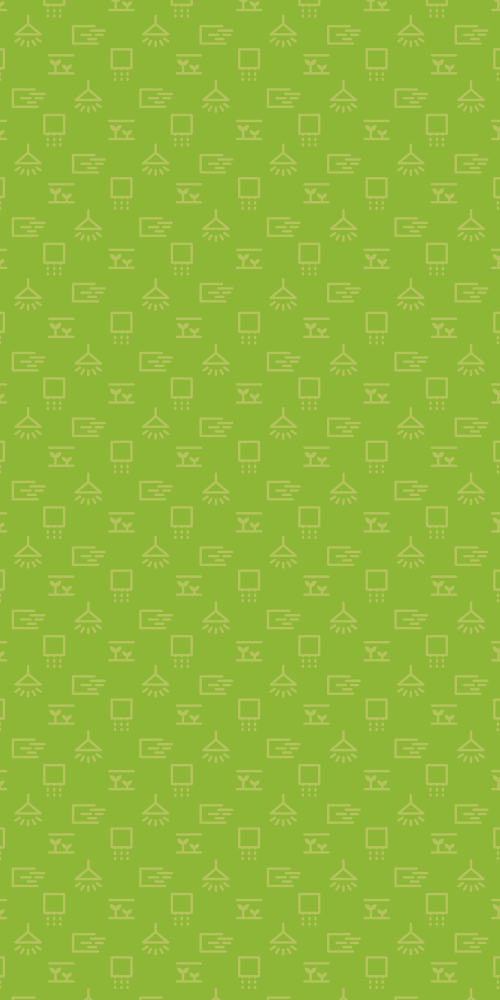
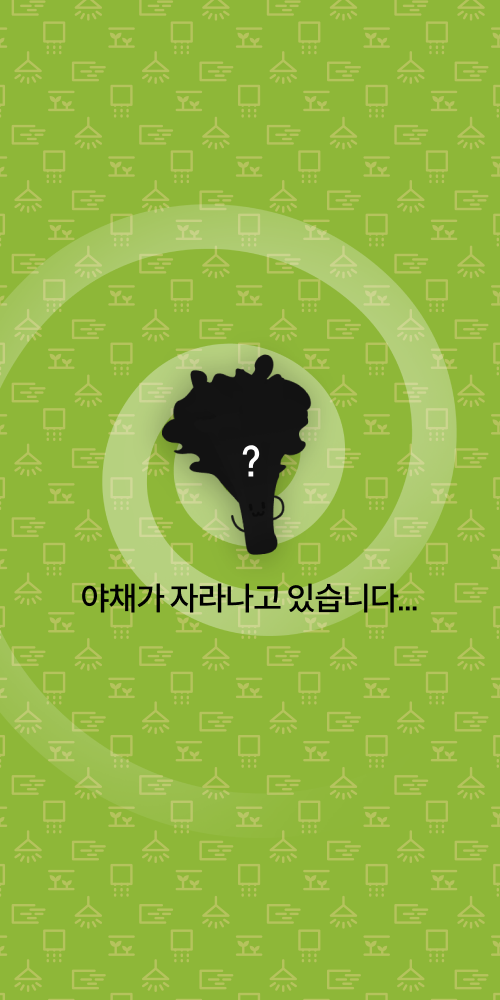
Re : Fail-

diff --git a/team_1/src/FailKP/FailKP.css b/team_1/src/FailKP/FailKP.css
@@ -1,0 +1,72 @@
+html, body{
+    margin: 0 auto;
+    padding: 0;
+    height: 100%;
+    width: 100%;
+  
+    display: block;
+  
+    max-width: 500px;
+  
+    font-family: Arial;
+    text-align: center;
+  }
+  
+  #root {
+    height: 100%;
+    width: 100%;
+  }
+  
+  .FailKP{
+
+    width: 100%;
+    height: 100%;
+    max-width: 500px;
+    background: url("../../public/img/RFRMbg.png");
+    background-repeat: no-repeat;
+    background-position: center;
+    background-size: cover;
+
+  }
+
+  .Hint{
+    display: flex;
+    position:relative;
+
+    max-width: 500px;
+    width: 60%;
+    height: auto;
+    margin-left: auto;
+    margin-right: auto;
+    
+    top: 70%;
+    bottom: 50%;
+  }
+
+.Retry1{
+  display: flex;
+  position:relative;
+
+  max-width: 500px;
+  width: 60%;
+  height: auto;
+  margin-left: auto;
+  margin-right: auto;
+  
+  top: 70%;
+  bottom: 50%;
+}
+
+.Tembtn4{
+  display: flex;
+  position:relative;
+
+  max-width: 500px;
+  width: 60%;
+  height: auto;
+  margin-left: auto;
+  margin-right: auto;
+  
+  top: 70%;
+  bottom: 50%;
+}

diff --git a/team_1/src/GameIntro/GameIntro.css b/team_1/src/GameIntro/GameIntro.css
@@ -42,9 +42,10 @@ html, body{
 
     max-width: 250px;
     margin-left: 5%;
-    margin-right: auto;
+    opacity: 1;
     position: relative;
     margin-top: 30%;
+    transition: 1.3s;
   
     border: 0;
 }
@@ -54,7 +55,6 @@ html, body{
 
     max-width: 300px;
     margin-left: 5%;
-    margin-right: auto;
     position: relative;
     margin-top: 7%;
   
@@ -66,7 +66,6 @@ html, body{
 
     max-width: 230px;
     margin-left: 5%;
-    margin-right: auto;
     position: relative;
     margin-top: 5%;
   
@@ -78,7 +77,6 @@ html, body{
 
     max-width: 280px;
     margin-left: 5%;
-    margin-right: auto;
     position: relative;
     margin-top: 7%;
   
@@ -90,7 +88,6 @@ html, body{
 
     max-width: 220px;
     margin-left: 5%;
-    margin-right: auto;
     position: relative;
     margin-top: 5%;
   
@@ -102,7 +99,6 @@ html, body{
 
     max-width: 130px;
     margin-left: 5%;
-    margin-right: auto;
     position: relative;
     margin-top: 7%;
   

diff --git a/team_1/src/App.js b/team_1/src/App.js
@@ -8,7 +8,7 @@ import Mission2Result from './Mission2Result/Mission2Result'
 import Mission3 from './Mission3/Mission3'
 import Mission3Result from './Mission3Result/Mission3Result'
 import Loading from './Loading/Loading'
-import ResultFail from './ResultFail/ResultFail'
+import FailRM from './FailRM/FailRM'
 import ResultSuc from './ResultSuc/ResultSuc'
 import HintPage from './HintPage/HintPage'
 import { BrowserRouter, Route, Routes } from 'react-router-dom'
@@ -27,7 +27,7 @@ function App() {
         <Route path="/Mission3" element={<Mission3/>} />
         <Route path="/Mission3Result" element={<Mission3Result/>}/>
         <Route path="/Loading" element={<Loading/>} />
-        <Route path="/ResultFail" element={<ResultFail/>} />
+        <Route path="/FailRM" element={<FailRM/>} />
         <Route path="/ResultSuc" element={<ResultSuc/>} />
         <Route path="/HintPage" element={<HintPage/>} />
       </Routes>

diff --git a/team_1/src/Loading/Loading.css b/team_1/src/Loading/Loading.css
@@ -28,7 +28,7 @@ html, body{
     
     display: block;
 
-    background: url("https://i.ibb.co/5nrLfB2/loadingbg.png");
+    background: url("../../public/img/Loadingbg.png");
     background-repeat: no-repeat;
     background-position: center;
     background-size: cover;
@@ -38,19 +38,6 @@ html, body{
    
 }
 
-.Loadimg{
-    display: flex;
-    position:relative;
-
-    max-width: 500px;
-    width: 60%;
-    height: auto;
-    margin-left: auto;
-    margin-right: auto;
-    
-    top: 60%;
-    bottom: 50%;
-}
 
 .Tembtn3{
     display: flex;
@@ -62,7 +49,7 @@ html, body{
     margin-left: auto;
     margin-right: auto;
     
-    top: 30%;
+    top: 80%;
     bottom: 50%;
 }
 

diff --git a/team_1/src/FailKP/FailKP.js b/team_1/src/FailKP/FailKP.js
@@ -1,10 +1,10 @@
-import './ResultFail.css';
+import './FailKP.css';
 import { Link } from "react-router-dom";
 
-function ResultFail() {
+function FailKP() {
    
     return( 
-        <div className='ResultFail'>
+        <div className='FailKP'>
                        <Link to="/HintPage"><img className="Hint" alt="Hint" src="img/Hint.png"/></Link>
                        <Link to="/Mission1"><img className="Retry1" alt="Retry" src="img/Retry.png"/></Link>
                        <Link to="/ResultSuc"><img className="Tembtn4" alt="Tembtn" src="img/Tembtn.png"/></Link>
@@ -13,4 +13,4 @@ function ResultFail() {
     </div>
 );
 }
-export default ResultFail;
+export default FailKP;

diff --git a/team_1/src/FailRM/FailRM.js b/team_1/src/FailRM/FailRM.js
@@ -1,0 +1,16 @@
+import './FailRM.css';
+import { Link } from "react-router-dom";
+
+function FailRM() {
+   
+    return( 
+        <div className='FailRM'>
+                       <Link to="/HintPage"><img className="Hint" alt="Hint" src="img/Hint.png"/></Link>
+                       <Link to="/Mission1"><img className="Retry1" alt="Retry" src="img/Retry.png"/></Link>
+                       <Link to="/ResultSuc"><img className="Tembtn4" alt="Tembtn" src="img/Tembtn.png"/></Link>
+
+
+    </div>
+);
+}
+export default FailRM;

diff --git a/team_1/src/Loading/Loading.js b/team_1/src/Loading/Loading.js
@@ -24,9 +24,8 @@ function Loading() {
 
     return( 
         <div className='Loading'>
-            <div><img className="Loadimg" alt="Loadimg" src="img/Loadimg.png"/></div>
                 {/* alert === true */}
-                       <Link to="/ResultFail"><img className="Tembtn3" alt="Tembtn" src="img/Tembtn.png"/></Link>
+                       <Link to="/FailRM"><img className="Tembtn3" alt="Tembtn" src="img/Tembtn.png"/></Link>
     </div>
 );
 }

diff --git a/team_1/src/FailRM/FailRM.css b/team_1/src/FailRM/FailRM.css
@@ -17,11 +17,12 @@ html, body{
     width: 100%;
   }
   
-  .ResultFail{
+  .FailRM{
 
-    max-width: 500px;
+    width: 100%;
     height: 100%;
-    background: url("https://i.ibb.co/6JG68TQ/Result-Failbg.png");
+    max-width: 500px;
+    background: url("../../public/img/RFRMbg.png");
     background-repeat: no-repeat;
     background-position: center;
     background-size: cover;
